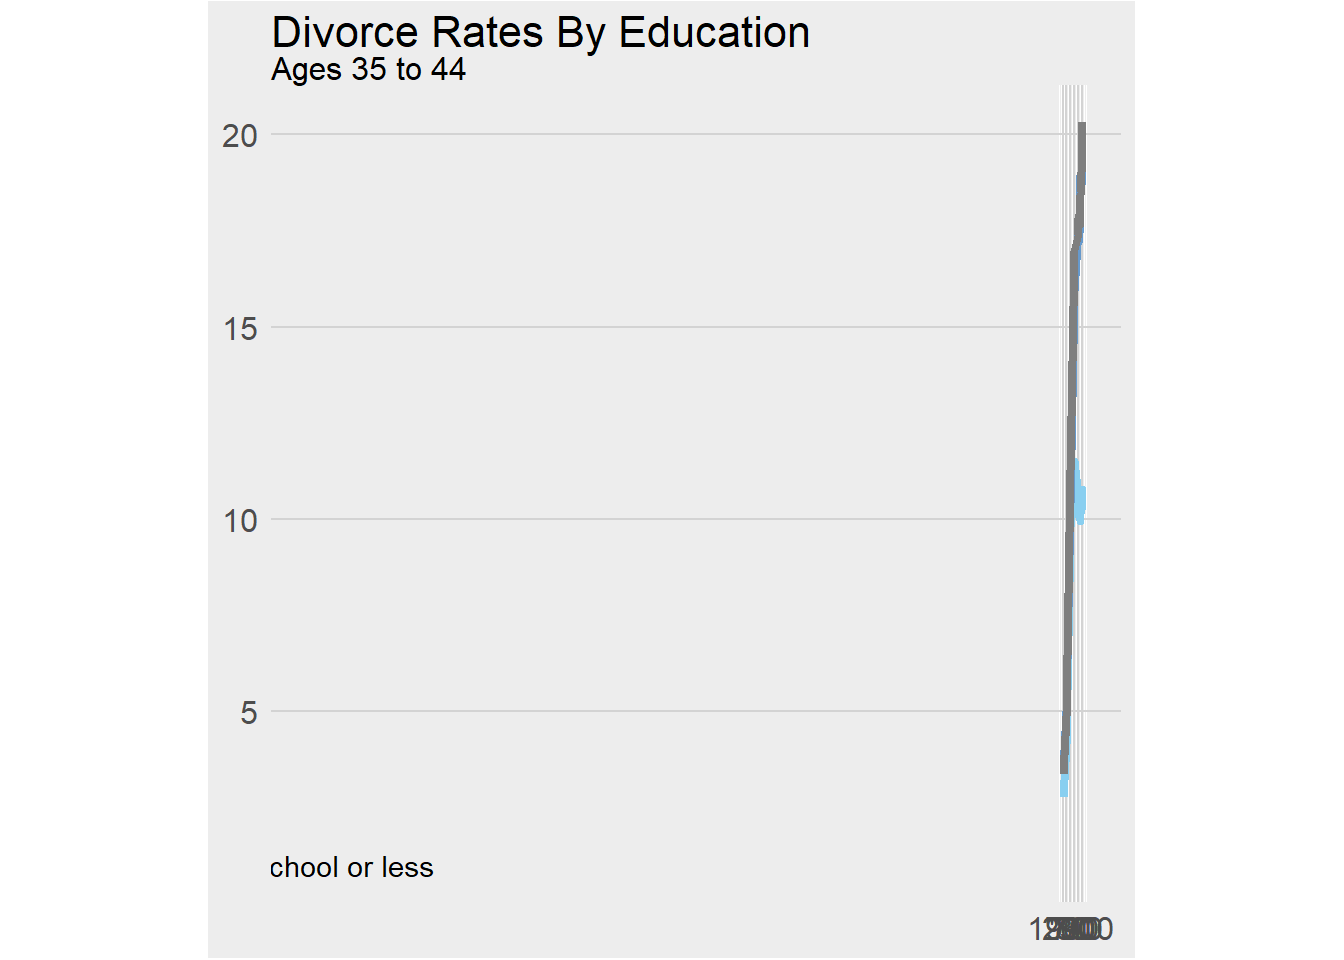
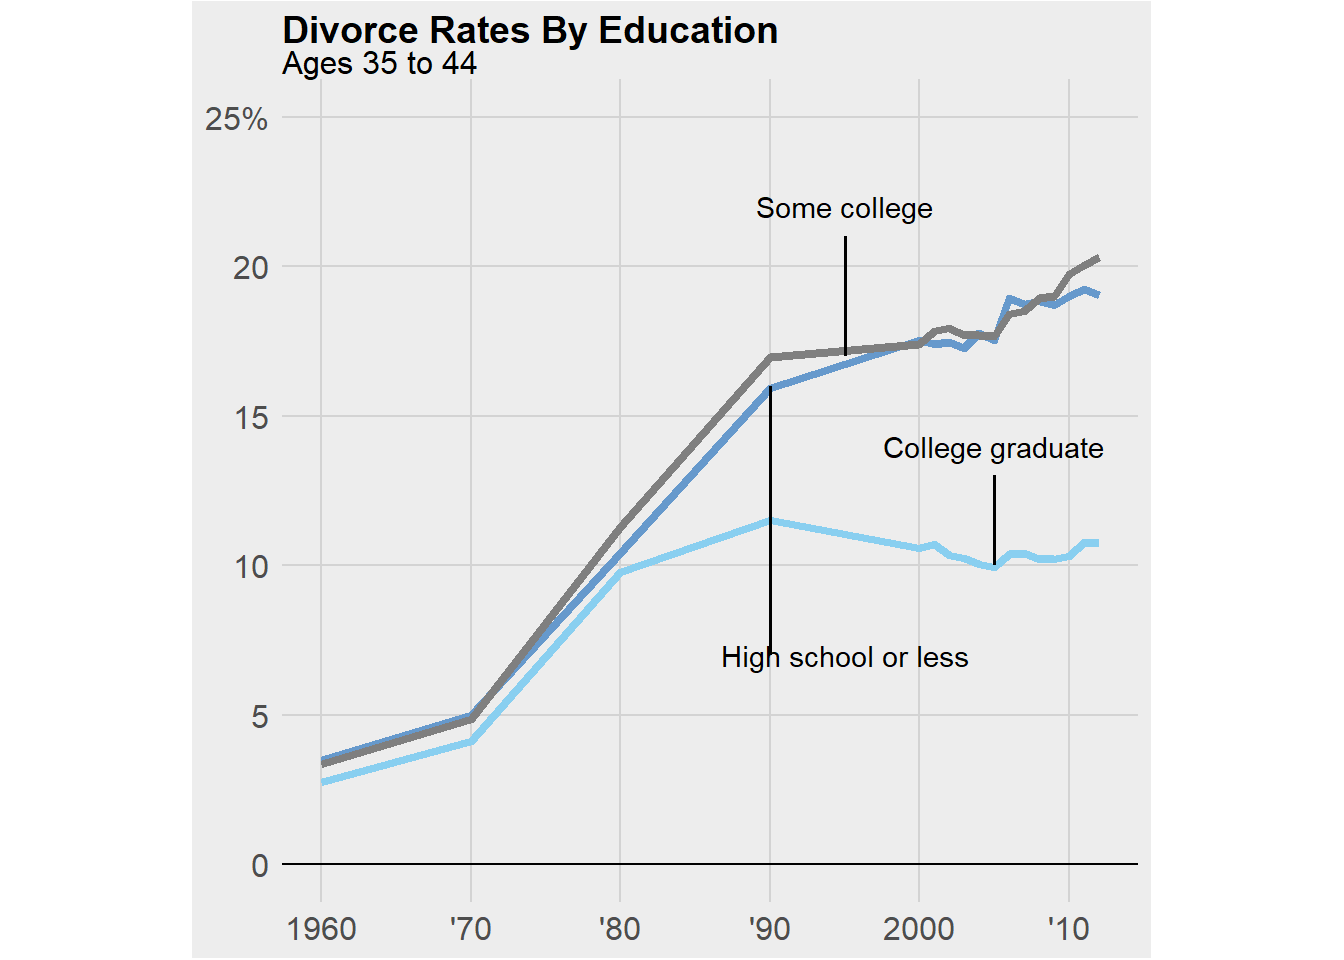
adding ggsave

diff --git a/docs/visualization_exercise.html b/docs/visualization_exercise.html
@@ -385,7 +385,7 @@ $ rich_4554 &lt;dbl&gt; 0.02350489, 0.02123280, 0.02791567, 0.04577501, 0.051525
 </div>
 <p>Plotting</p>
 <div class="cell">
-<div class="sourceCode cell-code" id="cb11"><pre class="sourceCode r code-with-copy"><code class="sourceCode r"><span id="cb11-1"><a href="#cb11-1" aria-hidden="true" tabindex="-1"></a><span class="co">#creating a data frame that will be used for plotting the names of education levels</span></span>
+<div class="sourceCode cell-code" id="cb11"><pre class="sourceCode r code-with-copy"><code class="sourceCode r"><span id="cb11-1"><a href="#cb11-1" aria-hidden="true" tabindex="-1"></a><span class="co">#creating a data frame that will be used for plotting the names of education levels, I eventually used annotation function to create my graph, but I still want to leave this section here</span></span>
 <span id="cb11-2"><a href="#cb11-2" aria-hidden="true" tabindex="-1"></a>education_level_labels<span class="ot">=</span>edu_div2<span class="sc">%&gt;%</span></span>
 <span id="cb11-3"><a href="#cb11-3" aria-hidden="true" tabindex="-1"></a>  <span class="fu">pivot_wider</span>(<span class="at">names_from=</span><span class="st">"year"</span>,<span class="at">values_from=</span><span class="st">"divorce"</span>)<span class="sc">%&gt;%</span></span>
 <span id="cb11-4"><a href="#cb11-4" aria-hidden="true" tabindex="-1"></a>  <span class="fu">mutate</span>(<span class="at">nrow=</span><span class="dv">1</span><span class="sc">:</span><span class="fu">n</span>(), <span class="co">#create a new column indicating which row each education level is at</span></span>
@@ -413,28 +413,70 @@ $ rich_4554 &lt;dbl&gt; 0.02350489, 0.02123280, 0.02791567, 0.04577501, 0.051525
 <span id="cb13-7"><a href="#cb13-7" aria-hidden="true" tabindex="-1"></a><span class="st">Education"</span>,</span>
 <span id="cb13-8"><a href="#cb13-8" aria-hidden="true" tabindex="-1"></a>       <span class="at">subtitle=</span><span class="st">"Ages 35 to 44"</span>,</span>
 <span id="cb13-9"><a href="#cb13-9" aria-hidden="true" tabindex="-1"></a>       <span class="at">x=</span><span class="cn">NULL</span>,<span class="at">y=</span><span class="cn">NULL</span>)<span class="sc">+</span></span>
-<span id="cb13-10"><a href="#cb13-10" aria-hidden="true" tabindex="-1"></a>  <span class="fu">scale_x_continuous</span>(<span class="at">breaks=</span><span class="fu">seq</span>(<span class="dv">1960</span>,<span class="dv">2012</span>,<span class="at">by=</span><span class="dv">10</span>),<span class="at">labels=</span><span class="fu">c</span>(<span class="st">"1960"</span>,<span class="st">"'70"</span>,<span class="st">"'80"</span>,<span class="st">"'90"</span>,<span class="st">"2000"</span>,<span class="st">"'10"</span>))<span class="sc">+</span></span>
+<span id="cb13-10"><a href="#cb13-10" aria-hidden="true" tabindex="-1"></a>  <span class="fu">scale_x_continuous</span>(<span class="at">breaks=</span><span class="fu">seq</span>(<span class="dv">1960</span>,<span class="dv">2012</span>,<span class="at">by=</span><span class="dv">10</span>),<span class="at">labels=</span><span class="fu">c</span>(<span class="st">"1960"</span>,<span class="st">"'70"</span>,<span class="st">"'80"</span>,<span class="st">"'90"</span>,<span class="st">"2000"</span>,<span class="st">"'10"</span>),<span class="at">minor_breaks=</span><span class="cn">NULL</span>)<span class="sc">+</span></span>
 <span id="cb13-11"><a href="#cb13-11" aria-hidden="true" tabindex="-1"></a>  <span class="fu">scale_y_continuous</span>(<span class="at">breaks=</span><span class="fu">seq</span>(<span class="dv">0</span>,<span class="dv">25</span>,<span class="at">by=</span><span class="dv">5</span>),<span class="at">labels=</span><span class="fu">c</span>(<span class="st">"0"</span>,<span class="st">"5"</span>,<span class="st">"10"</span>,<span class="st">"15"</span>,<span class="st">"20"</span>,<span class="st">"25%"</span>),<span class="at">minor_breaks=</span><span class="cn">NULL</span>)<span class="sc">+</span></span>
 <span id="cb13-12"><a href="#cb13-12" aria-hidden="true" tabindex="-1"></a>  <span class="fu">scale_color_manual</span>(<span class="at">breaks=</span><span class="fu">c</span>(<span class="st">"High school or less"</span>,<span class="st">"Some College"</span>,<span class="st">"College graduates"</span>),<span class="at">values=</span><span class="fu">c</span>(<span class="st">"#6699CC"</span>,<span class="st">"#0047AB"</span>,<span class="st">"#89CFF0"</span>))<span class="sc">+</span></span>
 <span id="cb13-13"><a href="#cb13-13" aria-hidden="true" tabindex="-1"></a>  <span class="fu">theme</span>(</span>
 <span id="cb13-14"><a href="#cb13-14" aria-hidden="true" tabindex="-1"></a>        <span class="at">text=</span><span class="fu">element_text</span>(<span class="at">size=</span><span class="dv">16</span>),</span>
-<span id="cb13-15"><a href="#cb13-15" aria-hidden="true" tabindex="-1"></a>        <span class="at">plot.title=</span><span class="fu">element_textbox_simple</span>(<span class="at">size=</span><span class="dv">16</span>),</span>
+<span id="cb13-15"><a href="#cb13-15" aria-hidden="true" tabindex="-1"></a>        <span class="at">plot.title=</span><span class="fu">element_textbox_simple</span>(<span class="at">size=</span><span class="dv">14</span>,<span class="at">face=</span><span class="st">"bold"</span>),<span class="co">#control the size of title and subtitle</span></span>
 <span id="cb13-16"><a href="#cb13-16" aria-hidden="true" tabindex="-1"></a>        <span class="at">plot.subtitle=</span><span class="fu">element_textbox_simple</span>(<span class="at">size=</span><span class="dv">12</span>),</span>
 <span id="cb13-17"><a href="#cb13-17" aria-hidden="true" tabindex="-1"></a>        <span class="at">plot.background =</span> <span class="fu">element_rect</span>(<span class="at">fill=</span><span class="st">"#ededed"</span>),<span class="co">#change the whole plot background color</span></span>
 <span id="cb13-18"><a href="#cb13-18" aria-hidden="true" tabindex="-1"></a>        <span class="at">panel.background=</span><span class="fu">element_rect</span>(<span class="at">fill=</span><span class="st">"#ededed"</span>),<span class="co">#change the panel background color</span></span>
-<span id="cb13-19"><a href="#cb13-19" aria-hidden="true" tabindex="-1"></a>        <span class="at">panel.grid.major =</span> <span class="fu">element_line</span>(<span class="at">color=</span><span class="st">"lightgrey"</span>),</span>
+<span id="cb13-19"><a href="#cb13-19" aria-hidden="true" tabindex="-1"></a>        <span class="at">panel.grid.major =</span> <span class="fu">element_line</span>(<span class="at">color=</span><span class="st">"lightgrey"</span>), <span class="co">#change the grid color in the panel background</span></span>
 <span id="cb13-20"><a href="#cb13-20" aria-hidden="true" tabindex="-1"></a>        <span class="at">legend.position=</span><span class="st">"none"</span>,</span>
-<span id="cb13-21"><a href="#cb13-21" aria-hidden="true" tabindex="-1"></a>        <span class="at">axis.text=</span><span class="fu">element_text</span>(<span class="at">size=</span><span class="dv">12</span>),</span>
-<span id="cb13-22"><a href="#cb13-22" aria-hidden="true" tabindex="-1"></a>        <span class="at">axis.ticks=</span><span class="fu">element_blank</span>()</span>
+<span id="cb13-21"><a href="#cb13-21" aria-hidden="true" tabindex="-1"></a>        <span class="at">axis.text=</span><span class="fu">element_text</span>(<span class="at">size=</span><span class="dv">12</span>), <span class="co">#specify the text size</span></span>
+<span id="cb13-22"><a href="#cb13-22" aria-hidden="true" tabindex="-1"></a>        <span class="at">axis.ticks=</span><span class="fu">element_blank</span>()       <span class="co">#remove all the ticks</span></span>
 <span id="cb13-23"><a href="#cb13-23" aria-hidden="true" tabindex="-1"></a>        )<span class="sc">+</span></span>
-<span id="cb13-24"><a href="#cb13-24" aria-hidden="true" tabindex="-1"></a>  <span class="fu">annotate</span>(<span class="st">"text"</span>,<span class="at">x=</span><span class="dv">1</span>, <span class="at">y=</span><span class="dv">1</span>,<span class="at">label=</span><span class="st">"High school or less"</span>)<span class="sc">+</span></span>
-<span id="cb13-25"><a href="#cb13-25" aria-hidden="true" tabindex="-1"></a>  <span class="fu">coord_fixed</span>(<span class="at">ratio=</span><span class="dv">100</span>)    <span class="co">#control the ratio of y/x coordinate</span></span></code><button title="Copy to Clipboard" class="code-copy-button"><i class="bi"></i></button></pre></div>
+<span id="cb13-24"><a href="#cb13-24" aria-hidden="true" tabindex="-1"></a>  <span class="fu">geom_hline</span>(<span class="at">yintercept =</span> <span class="dv">0</span>)<span class="sc">+</span> <span class="co">#highlight the x axis (when y=0)</span></span>
+<span id="cb13-25"><a href="#cb13-25" aria-hidden="true" tabindex="-1"></a>  <span class="fu">annotate</span>(<span class="st">"text"</span>,<span class="at">x=</span><span class="dv">1995</span>, <span class="at">y=</span><span class="dv">7</span>,<span class="at">label=</span><span class="st">"High school or less"</span>)<span class="sc">+</span> <span class="co">#using annotate functions to add text and lines in the graph</span></span>
+<span id="cb13-26"><a href="#cb13-26" aria-hidden="true" tabindex="-1"></a>  <span class="fu">annotate</span>(<span class="st">"text"</span>,<span class="at">x=</span><span class="dv">1995</span>,<span class="at">y=</span><span class="dv">22</span>,<span class="at">label=</span><span class="st">"Some college"</span>)<span class="sc">+</span></span>
+<span id="cb13-27"><a href="#cb13-27" aria-hidden="true" tabindex="-1"></a>  <span class="fu">annotate</span>(<span class="st">"text"</span>,<span class="at">x=</span><span class="dv">2005</span>,<span class="at">y=</span><span class="dv">14</span>,<span class="at">label=</span><span class="st">"College graduate"</span>)<span class="sc">+</span></span>
+<span id="cb13-28"><a href="#cb13-28" aria-hidden="true" tabindex="-1"></a>  <span class="fu">annotate</span>(<span class="st">"segment"</span>,<span class="at">x=</span><span class="dv">1990</span>,<span class="at">xend=</span><span class="dv">1990</span>,<span class="at">y=</span><span class="dv">7</span>,<span class="at">yend=</span><span class="dv">16</span>,<span class="at">color=</span><span class="st">"black"</span>,<span class="at">size=</span><span class="fl">0.7</span>)<span class="sc">+</span></span>
+<span id="cb13-29"><a href="#cb13-29" aria-hidden="true" tabindex="-1"></a>  <span class="fu">annotate</span>(<span class="st">"segment"</span>,<span class="at">x=</span><span class="dv">1995</span>,<span class="at">xend=</span><span class="dv">1995</span>,<span class="at">y=</span><span class="dv">21</span>,<span class="at">yend=</span><span class="dv">17</span>,<span class="at">color=</span><span class="st">"black"</span>,<span class="at">size=</span><span class="fl">0.7</span>)<span class="sc">+</span></span>
+<span id="cb13-30"><a href="#cb13-30" aria-hidden="true" tabindex="-1"></a>  <span class="fu">annotate</span>(<span class="st">"segment"</span>,<span class="at">x=</span><span class="dv">2005</span>,<span class="at">xend=</span><span class="dv">2005</span>,<span class="at">y=</span><span class="dv">13</span>,<span class="at">yend=</span><span class="dv">10</span>,<span class="at">color=</span><span class="st">"black"</span>,<span class="at">size=</span><span class="fl">0.7</span>)<span class="sc">+</span></span>
+<span id="cb13-31"><a href="#cb13-31" aria-hidden="true" tabindex="-1"></a>  <span class="fu">coord_fixed</span>(<span class="at">ratio=</span><span class="dv">2</span>, <span class="at">ylim=</span><span class="fu">c</span>(<span class="dv">0</span>,<span class="dv">25</span>),<span class="at">xlim=</span><span class="fu">c</span>(<span class="dv">1960</span>,<span class="dv">2012</span>))    <span class="co">#control the ratio of y/x coordinate, but also specify the limits for y&amp;x axis in case this function overwrite the axis range</span></span></code><button title="Copy to Clipboard" class="code-copy-button"><i class="bi"></i></button></pre></div>
 <div class="cell-output cell-output-stderr">
 <pre><code>Warning: Using `size` aesthetic for lines was deprecated in ggplot2 3.4.0.
 ℹ Please use `linewidth` instead.</code></pre>
 </div>
 <div class="cell-output-display">
 <p><img src="visualization_exercise_files/figure-html/unnamed-chunk-5-1.png" class="img-fluid" width="672"></p>
+</div>
+</div>
+<p>modify the graph using geom_point to indicate the data density, obviously more data was collected from year 2000-2010</p>
+<div class="cell">
+<div class="sourceCode cell-code" id="cb15"><pre class="sourceCode r code-with-copy"><code class="sourceCode r"><span id="cb15-1"><a href="#cb15-1" aria-hidden="true" tabindex="-1"></a>edu_div2<span class="sc">%&gt;%</span></span>
+<span id="cb15-2"><a href="#cb15-2" aria-hidden="true" tabindex="-1"></a><span class="fu">ggplot</span>(<span class="fu">aes</span>(<span class="at">x=</span>year,<span class="at">y=</span>divorce,<span class="at">group=</span>education_level,<span class="at">color=</span>education_level))<span class="sc">+</span></span>
+<span id="cb15-3"><a href="#cb15-3" aria-hidden="true" tabindex="-1"></a>  <span class="fu">geom_point</span>(<span class="at">size=</span><span class="dv">3</span>,<span class="at">alpha=</span><span class="fl">0.7</span>)<span class="sc">+</span></span>
+<span id="cb15-4"><a href="#cb15-4" aria-hidden="true" tabindex="-1"></a>  <span class="fu">geom_line</span>(<span class="at">size=</span><span class="fl">1.5</span>,<span class="at">show.legend=</span><span class="cn">FALSE</span>)<span class="sc">+</span></span>
+<span id="cb15-5"><a href="#cb15-5" aria-hidden="true" tabindex="-1"></a>  <span class="fu">labs</span>(<span class="at">title=</span><span class="st">"Divorce Rates By </span></span>
+<span id="cb15-6"><a href="#cb15-6" aria-hidden="true" tabindex="-1"></a><span class="st">Education"</span>,</span>
+<span id="cb15-7"><a href="#cb15-7" aria-hidden="true" tabindex="-1"></a>       <span class="at">subtitle=</span><span class="st">"Ages 35 to 44"</span>,</span>
+<span id="cb15-8"><a href="#cb15-8" aria-hidden="true" tabindex="-1"></a>       <span class="at">x=</span><span class="cn">NULL</span>,<span class="at">y=</span><span class="cn">NULL</span>)<span class="sc">+</span></span>
+<span id="cb15-9"><a href="#cb15-9" aria-hidden="true" tabindex="-1"></a>  <span class="fu">scale_x_continuous</span>(<span class="at">breaks=</span><span class="fu">seq</span>(<span class="dv">1960</span>,<span class="dv">2012</span>,<span class="at">by=</span><span class="dv">10</span>),<span class="at">labels=</span><span class="fu">c</span>(<span class="st">"1960"</span>,<span class="st">"'70"</span>,<span class="st">"'80"</span>,<span class="st">"'90"</span>,<span class="st">"2000"</span>,<span class="st">"'10"</span>),<span class="at">minor_breaks=</span><span class="cn">NULL</span>)<span class="sc">+</span></span>
+<span id="cb15-10"><a href="#cb15-10" aria-hidden="true" tabindex="-1"></a>  <span class="fu">scale_y_continuous</span>(<span class="at">breaks=</span><span class="fu">seq</span>(<span class="dv">0</span>,<span class="dv">25</span>,<span class="at">by=</span><span class="dv">5</span>),<span class="at">labels=</span><span class="fu">c</span>(<span class="st">"0"</span>,<span class="st">"5"</span>,<span class="st">"10"</span>,<span class="st">"15"</span>,<span class="st">"20"</span>,<span class="st">"25%"</span>),<span class="at">minor_breaks=</span><span class="cn">NULL</span>)<span class="sc">+</span></span>
+<span id="cb15-11"><a href="#cb15-11" aria-hidden="true" tabindex="-1"></a>  <span class="fu">scale_color_manual</span>(<span class="at">breaks=</span><span class="fu">c</span>(<span class="st">"High school or less"</span>,<span class="st">"Some College"</span>,<span class="st">"College graduates"</span>),<span class="at">values=</span><span class="fu">c</span>(<span class="st">"#6699CC"</span>,<span class="st">"#0047AB"</span>,<span class="st">"#89CFF0"</span>))<span class="sc">+</span></span>
+<span id="cb15-12"><a href="#cb15-12" aria-hidden="true" tabindex="-1"></a>  <span class="fu">theme</span>(</span>
+<span id="cb15-13"><a href="#cb15-13" aria-hidden="true" tabindex="-1"></a>        <span class="at">text=</span><span class="fu">element_text</span>(<span class="at">size=</span><span class="dv">16</span>),</span>
+<span id="cb15-14"><a href="#cb15-14" aria-hidden="true" tabindex="-1"></a>        <span class="at">plot.title=</span><span class="fu">element_textbox_simple</span>(<span class="at">size=</span><span class="dv">14</span>,<span class="at">face=</span><span class="st">"bold"</span>),<span class="co">#control the size of title and subtitle</span></span>
+<span id="cb15-15"><a href="#cb15-15" aria-hidden="true" tabindex="-1"></a>        <span class="at">plot.subtitle=</span><span class="fu">element_textbox_simple</span>(<span class="at">size=</span><span class="dv">12</span>),</span>
+<span id="cb15-16"><a href="#cb15-16" aria-hidden="true" tabindex="-1"></a>        <span class="at">plot.background =</span> <span class="fu">element_rect</span>(<span class="at">fill=</span><span class="st">"#ededed"</span>),<span class="co">#change the whole plot background color</span></span>
+<span id="cb15-17"><a href="#cb15-17" aria-hidden="true" tabindex="-1"></a>        <span class="at">panel.background=</span><span class="fu">element_rect</span>(<span class="at">fill=</span><span class="st">"#ededed"</span>),<span class="co">#change the panel background color</span></span>
+<span id="cb15-18"><a href="#cb15-18" aria-hidden="true" tabindex="-1"></a>        <span class="at">panel.grid.major =</span> <span class="fu">element_line</span>(<span class="at">color=</span><span class="st">"lightgrey"</span>), <span class="co">#change the grid color in the panel background</span></span>
+<span id="cb15-19"><a href="#cb15-19" aria-hidden="true" tabindex="-1"></a>        <span class="at">legend.position=</span><span class="st">"none"</span>,</span>
+<span id="cb15-20"><a href="#cb15-20" aria-hidden="true" tabindex="-1"></a>        <span class="at">axis.text=</span><span class="fu">element_text</span>(<span class="at">size=</span><span class="dv">12</span>), <span class="co">#specify the text size</span></span>
+<span id="cb15-21"><a href="#cb15-21" aria-hidden="true" tabindex="-1"></a>        <span class="at">axis.ticks=</span><span class="fu">element_blank</span>()       <span class="co">#remove all the ticks</span></span>
+<span id="cb15-22"><a href="#cb15-22" aria-hidden="true" tabindex="-1"></a>        )<span class="sc">+</span></span>
+<span id="cb15-23"><a href="#cb15-23" aria-hidden="true" tabindex="-1"></a>  <span class="fu">geom_hline</span>(<span class="at">yintercept =</span> <span class="dv">0</span>)<span class="sc">+</span> <span class="co">#highlight the x axis (when y=0)</span></span>
+<span id="cb15-24"><a href="#cb15-24" aria-hidden="true" tabindex="-1"></a>  <span class="fu">annotate</span>(<span class="st">"text"</span>,<span class="at">x=</span><span class="dv">1995</span>, <span class="at">y=</span><span class="dv">7</span>,<span class="at">label=</span><span class="st">"High school or less"</span>)<span class="sc">+</span> <span class="co">#using annotate functions to add text and lines in the graph</span></span>
+<span id="cb15-25"><a href="#cb15-25" aria-hidden="true" tabindex="-1"></a>  <span class="fu">annotate</span>(<span class="st">"text"</span>,<span class="at">x=</span><span class="dv">1995</span>,<span class="at">y=</span><span class="dv">22</span>,<span class="at">label=</span><span class="st">"Some college"</span>)<span class="sc">+</span></span>
+<span id="cb15-26"><a href="#cb15-26" aria-hidden="true" tabindex="-1"></a>  <span class="fu">annotate</span>(<span class="st">"text"</span>,<span class="at">x=</span><span class="dv">2005</span>,<span class="at">y=</span><span class="dv">14</span>,<span class="at">label=</span><span class="st">"College graduate"</span>)<span class="sc">+</span></span>
+<span id="cb15-27"><a href="#cb15-27" aria-hidden="true" tabindex="-1"></a>  <span class="fu">annotate</span>(<span class="st">"segment"</span>,<span class="at">x=</span><span class="dv">1990</span>,<span class="at">xend=</span><span class="dv">1990</span>,<span class="at">y=</span><span class="dv">7</span>,<span class="at">yend=</span><span class="dv">16</span>,<span class="at">color=</span><span class="st">"black"</span>,<span class="at">size=</span><span class="fl">0.7</span>)<span class="sc">+</span></span>
+<span id="cb15-28"><a href="#cb15-28" aria-hidden="true" tabindex="-1"></a>  <span class="fu">annotate</span>(<span class="st">"segment"</span>,<span class="at">x=</span><span class="dv">1995</span>,<span class="at">xend=</span><span class="dv">1995</span>,<span class="at">y=</span><span class="dv">21</span>,<span class="at">yend=</span><span class="dv">17</span>,<span class="at">color=</span><span class="st">"black"</span>,<span class="at">size=</span><span class="fl">0.7</span>)<span class="sc">+</span></span>
+<span id="cb15-29"><a href="#cb15-29" aria-hidden="true" tabindex="-1"></a>  <span class="fu">annotate</span>(<span class="st">"segment"</span>,<span class="at">x=</span><span class="dv">2005</span>,<span class="at">xend=</span><span class="dv">2005</span>,<span class="at">y=</span><span class="dv">13</span>,<span class="at">yend=</span><span class="dv">10</span>,<span class="at">color=</span><span class="st">"black"</span>,<span class="at">size=</span><span class="fl">0.7</span>)<span class="sc">+</span></span>
+<span id="cb15-30"><a href="#cb15-30" aria-hidden="true" tabindex="-1"></a>  <span class="fu">coord_fixed</span>(<span class="at">ratio=</span><span class="dv">2</span>, <span class="at">ylim=</span><span class="fu">c</span>(<span class="dv">0</span>,<span class="dv">25</span>),<span class="at">xlim=</span><span class="fu">c</span>(<span class="dv">1960</span>,<span class="dv">2012</span>))    <span class="co">#control the ratio of y/x coordinate, but also specify the limits for y&amp;x axis in case this function overwrite the axis range</span></span></code><button title="Copy to Clipboard" class="code-copy-button"><i class="bi"></i></button></pre></div>
+<div class="cell-output-display">
+<p><img src="visualization_exercise_files/figure-html/unnamed-chunk-6-1.png" class="img-fluid" width="672"></p>
 </div>
 </div>
 
